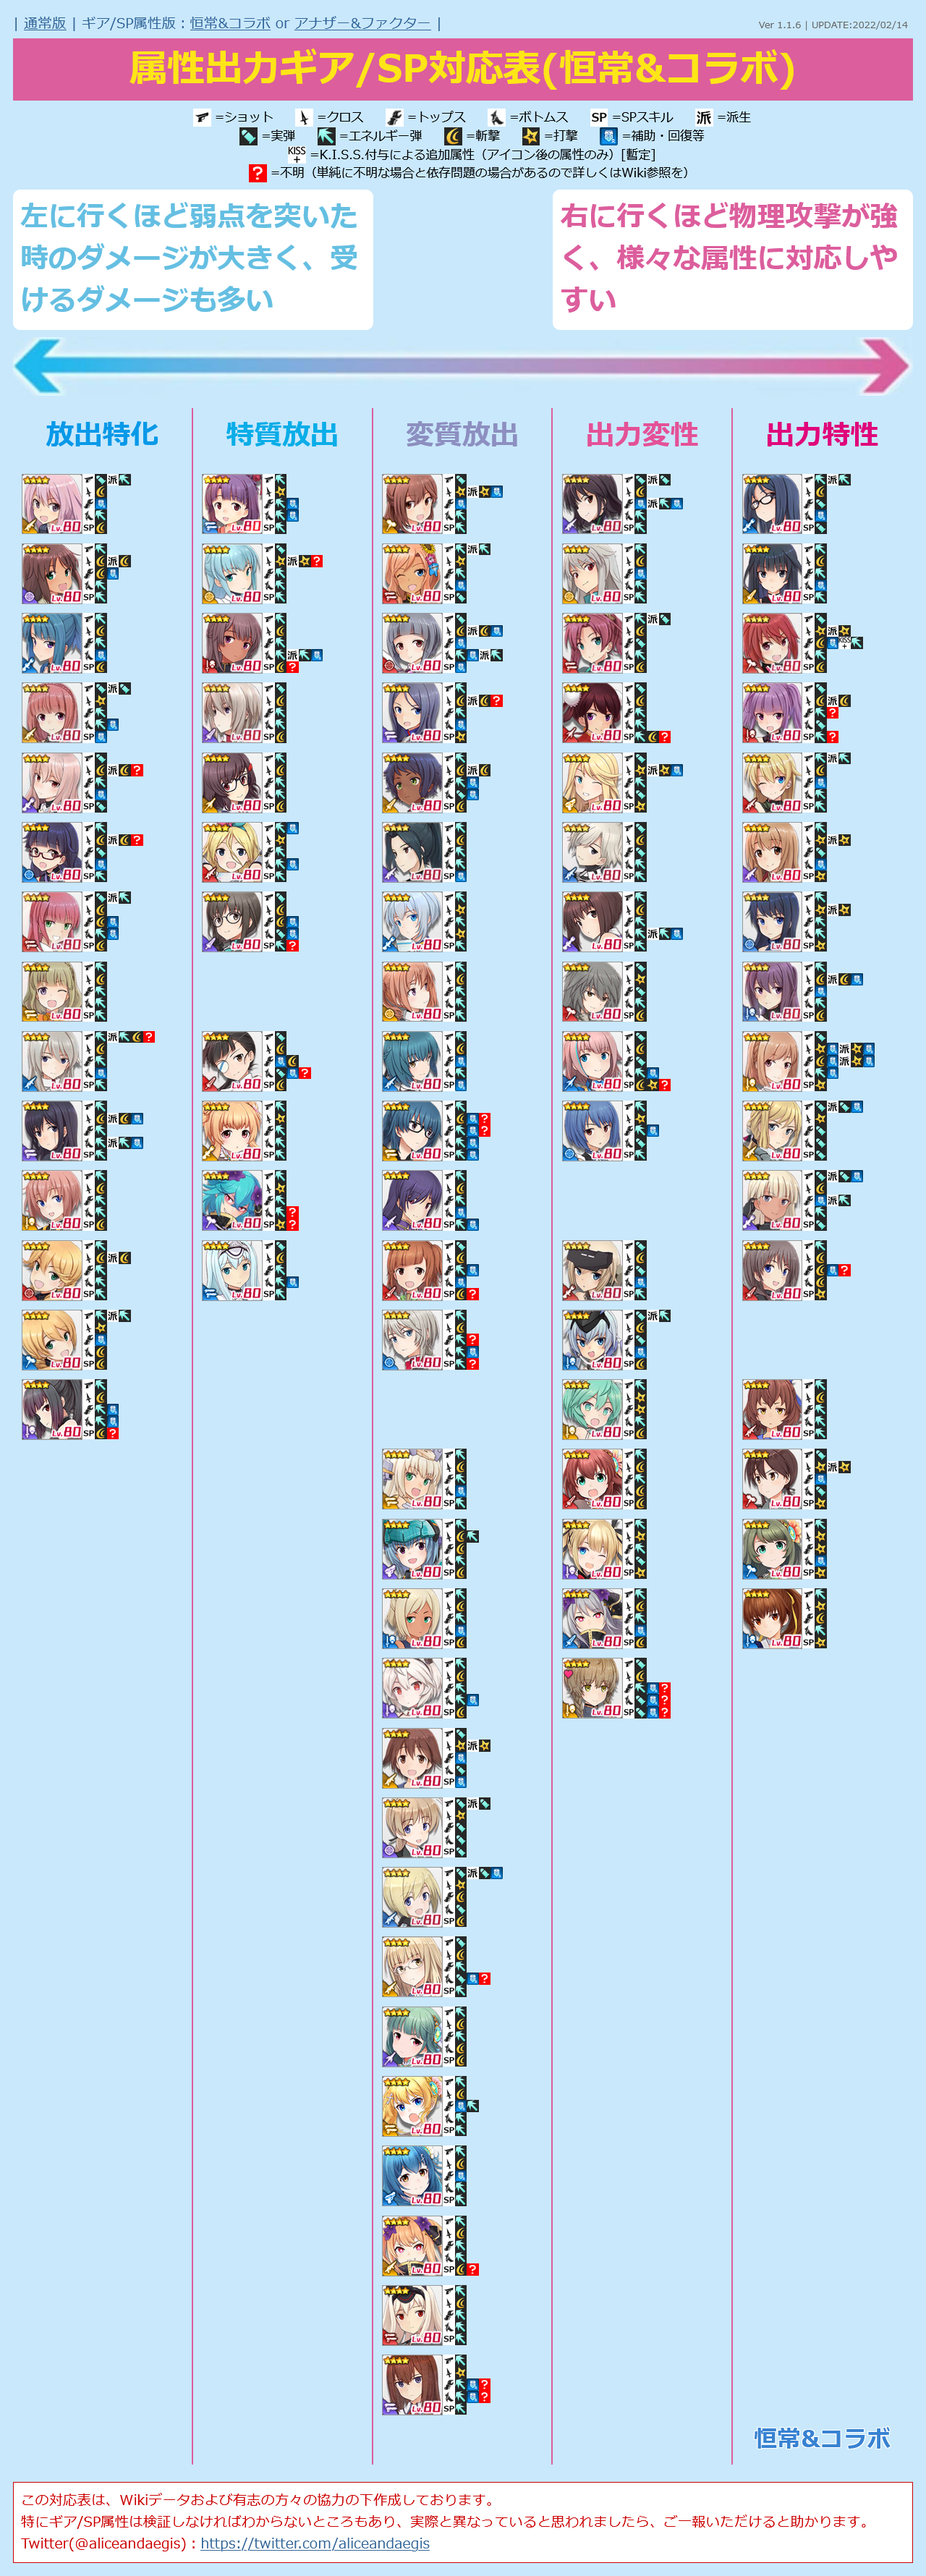
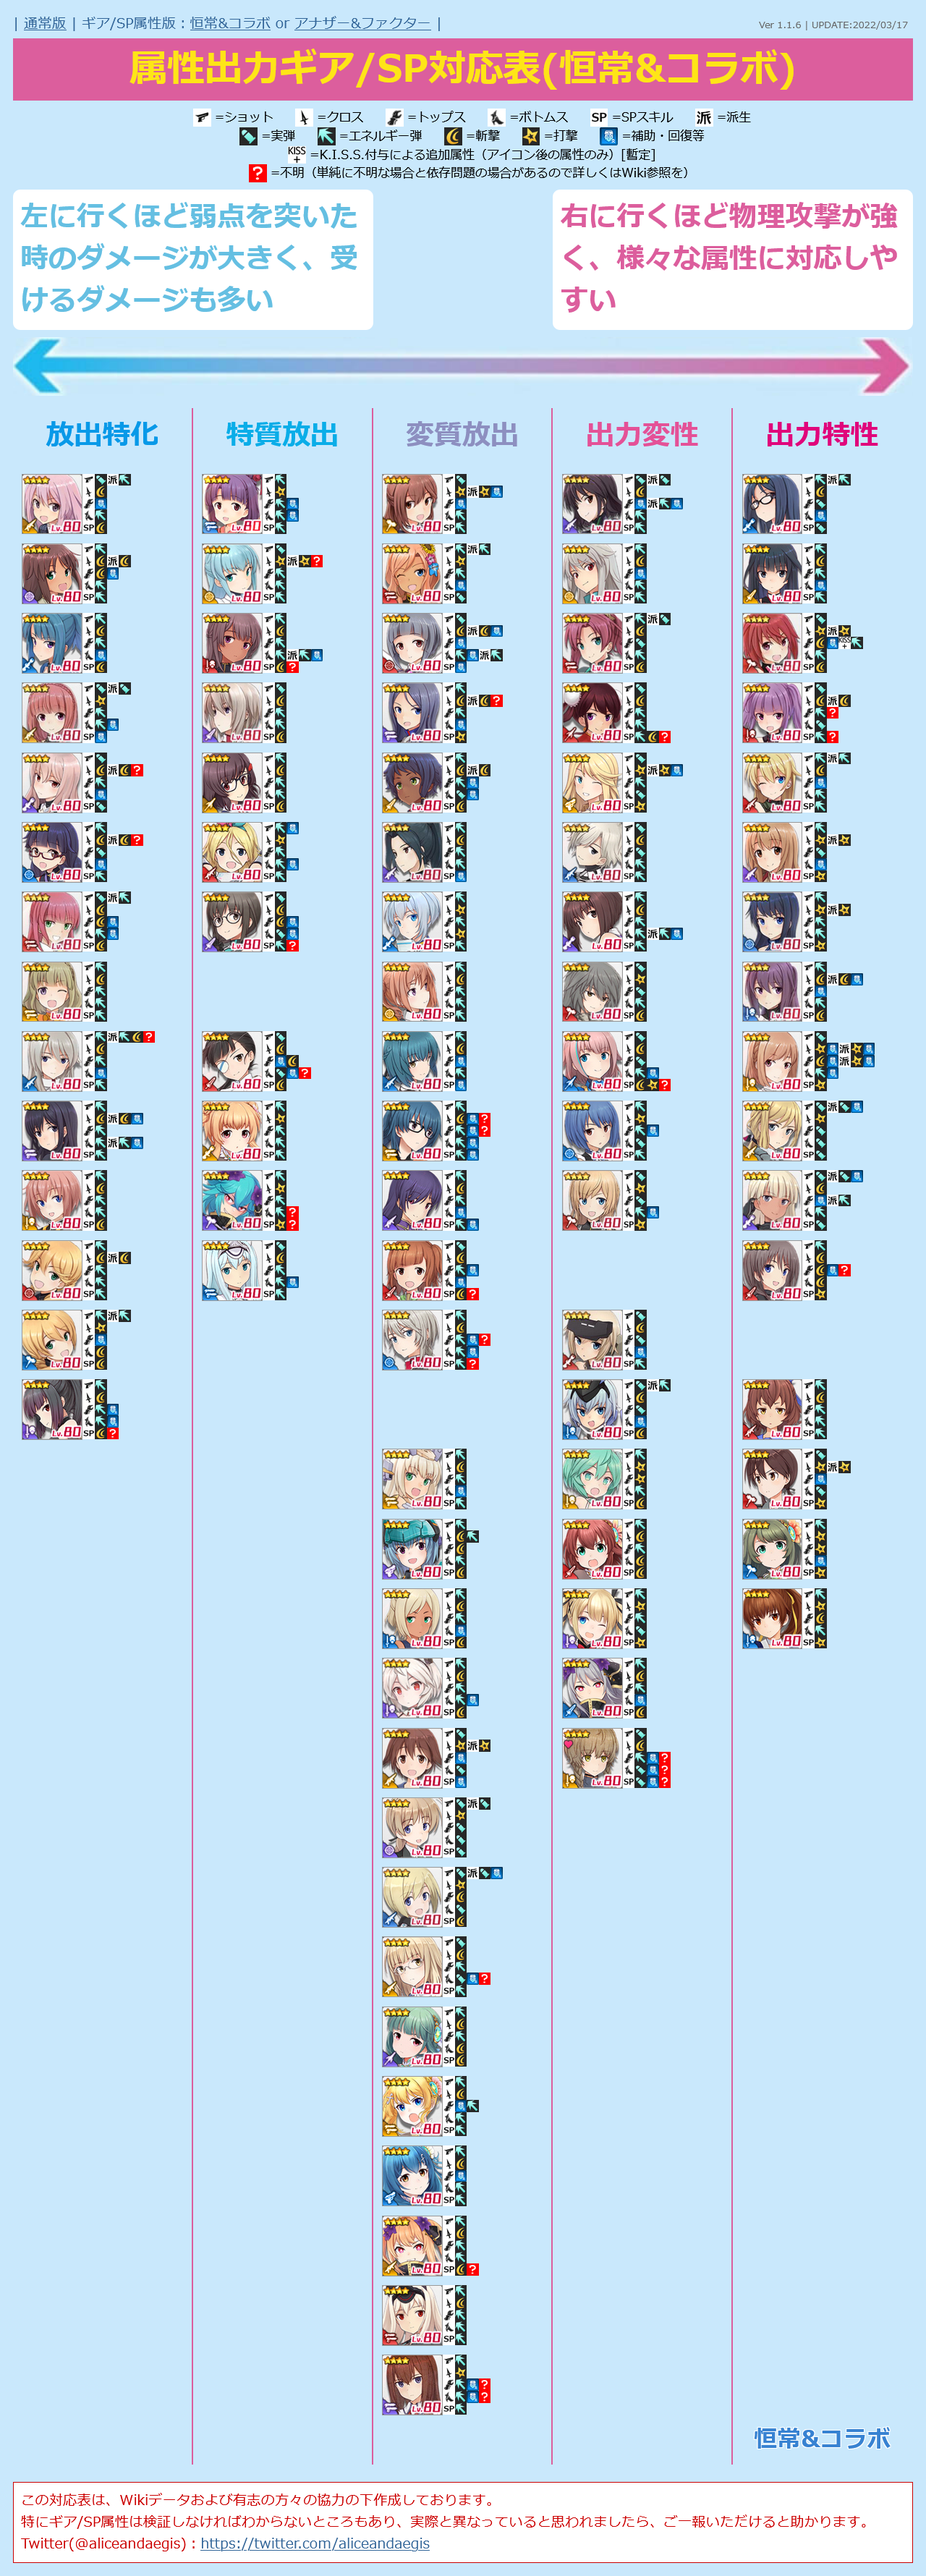
UPDATE charadata
・新キャラ 米良渕 花浪を追加

Changed region(s): [[0.5938, 0.4365, 0.75, 0.7171], [0.5, 0.4989, 0.5312, 0.5301]]

diff --git a/alice.html b/alice.html
@@ -12,7 +12,7 @@
   <script>
 
 /* 更新情報 必要に応じて書き換えてください */
-  var version = "Ver 1.1.6 | UPDATE:2022/02/25";
+  var version = "Ver 1.1.6 | UPDATE:2022/03/17";
 
 
 /*
@@ -1473,11 +1473,25 @@
       "name": "アデライーデ・ブルートハウゼン",
       "equip1": "2",
       "equip2": "3",
-      "equip3": "2?",
+      "equip3": "25?",
       "equip4": "25",
       "sp": "2?",
       "attr": "4",
       "link": "https://wikiwiki.jp/alicegear/%E3%82%A2%E3%83%87%E3%83%A9%E3%82%A4%E3%83%BC%E3%83%87%E3%83%BB%E3%83%96%E3%83%AB%E3%83%BC%E3%83%88%E3%83%8F%E3%82%A6%E3%82%BC%E3%83%B3",
+      "category": ""
+    },
+    {
+      "id": "57",
+      "type": "4",
+      "src": "normal-kanae.png",
+      "name": "米良渕 花浪",
+      "equip1": "1",
+      "equip2": "4",
+      "equip3": "1",
+      "equip4": "25",
+      "sp": "4",
+      "attr": "3",
+      "link": "https://wikiwiki.jp/alicegear/%E7%B1%B3%E8%89%AF%E6%B8%95%E8%8A%B1%E6%B5%AA",
       "category": ""
     },
     {
